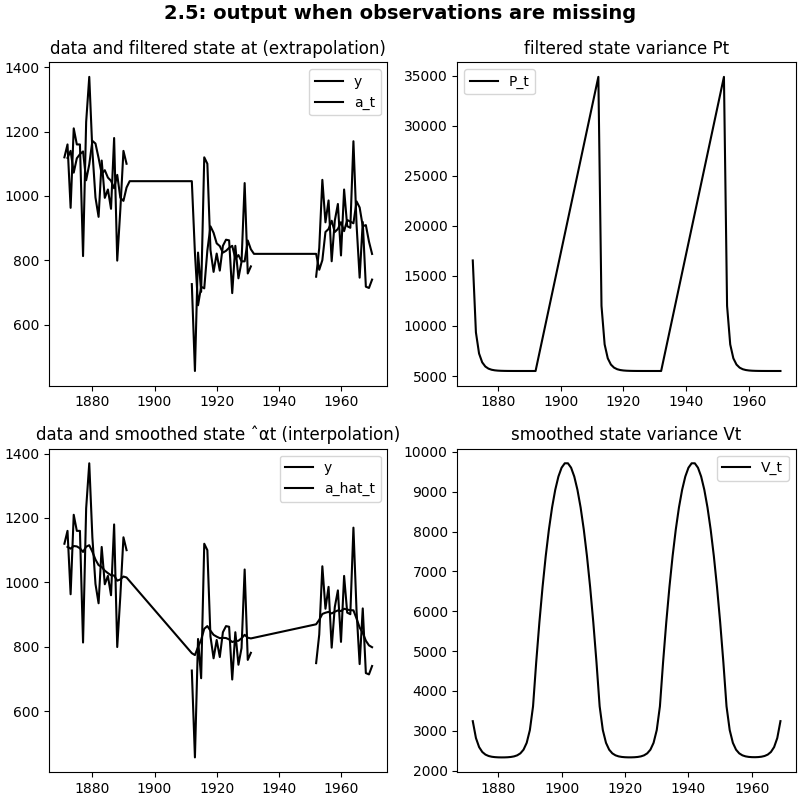
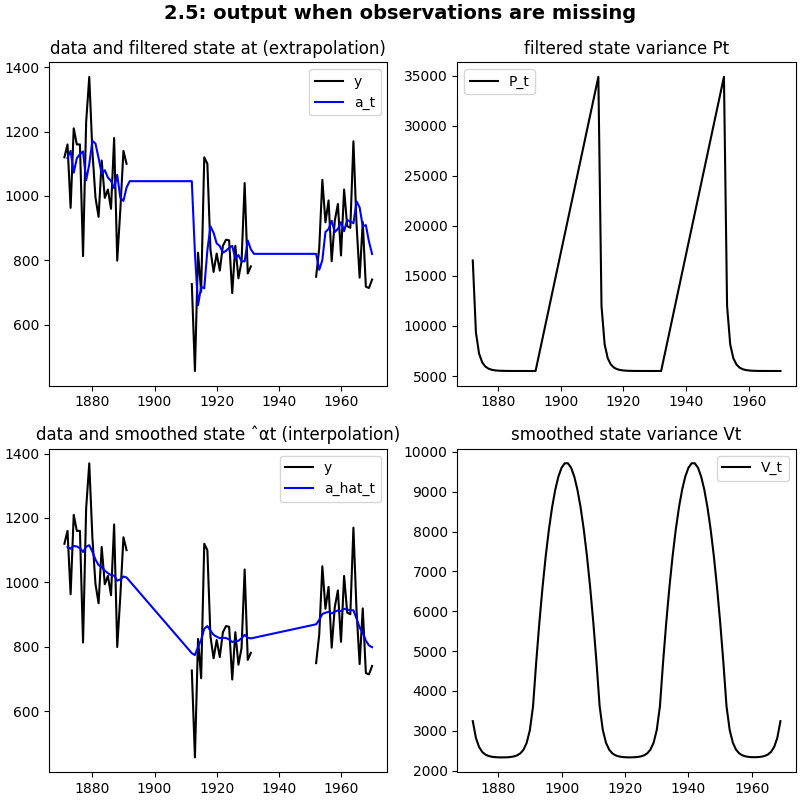
final code

diff --git a/LocalLevelModel.py b/LocalLevelModel.py
@@ -270,10 +270,10 @@ class LocalLevelModel:
             ])  
         st = self.startyear
         ax[0,0].plot(self.or_df.index+st, self.or_df['y'],'-k', label='y')
-        ax[0,0].plot(self.df.index[1:]+st, self.df.loc[1:, ['a_t']],'-k', label='a_t',color='k')
+        ax[0,0].plot(self.df.index[1:]+st, self.df.loc[1:, ['a_t']],'-b', label='a_t')
         ax[0,1].plot(self.df.index[1:]+st, self.df.loc[1:, ['P_t']],'-k', label='P_t')
         ax[1,0].plot(self.or_df.index+st, self.or_df['y'],'-k', label='y')
-        ax[1,0].plot(self.df.index[1:]+st, self.df.loc[1:, ['a_hat_t']],'-k', label='a_hat_t', color='k')
+        ax[1,0].plot(self.df.index[1:]+st, self.df.loc[1:, ['a_hat_t']],'-b', label='a_hat_t')
         ax[1,1].plot(self.df.index[1:(len(self.df)-1)]+st, self.df.loc[1:(len(self.df)-2), ['V_t']],'-k', label='V_t')
         self.plot_legend(ax)
         #plt.savefig('plots/Fig_Nile_2.5.png')
@@ -317,7 +317,6 @@ class LocalLevelModel:
         ax[0,1].plot(x_lim, density(x_lim), color='k')
         gofplots.ProbPlot(np.sort(self.df['error'])).qqplot(line="45", ax = ax[1,0])
         ax[1,0].axhline(y=0)
-        #todo: change to bar chart
         ax[1,1].acorr(self.df['error'])
         ax[1,1].set_xlim([0, 11])
         ax[1,1].set_ylim([-0.8, 0.8])

diff --git a/README.md b/README.md
@@ -1,2 +1,12 @@
 # tsm
-run program in cmd type in directory run_assignment.sh
+run program by running the shell program run_assignment.sh
+
+single call for the code can be done in the following way providing arguments
+
+python assignment1.py -p 'data/Nile.dat' -c 0 -e 'no' -m '[[21, 40], [61, 80]]' -f '30' -s '1871'
+
+-c (column index where the data is located we want to use)
+-e (estimate the parameters yes/no)
+-m (remove data in the dataset from this particular ranges)
+-f (forecast this number of steps)
+-s (the startindex of the data)
